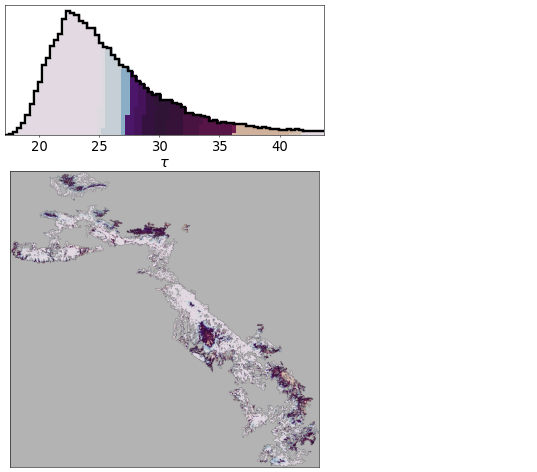
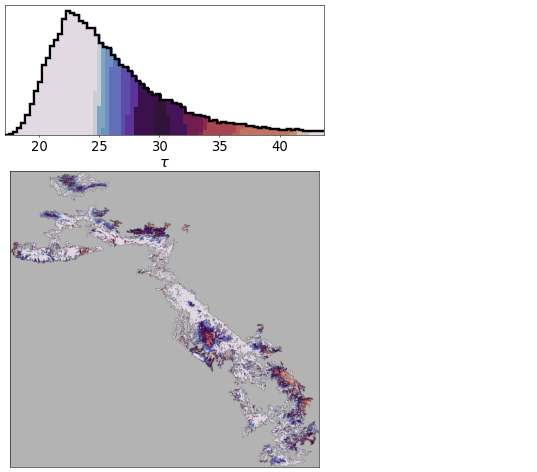
Write num eps samples to file

diff --git a/sensitivity/postprocess_mcsampled.py b/sensitivity/postprocess_mcsampled.py
@@ -1,0 +1,228 @@
+from tqdm import tqdm
+import numpy as np
+import pickle
+import signac as sg
+from scipy.special import gamma
+import scipy
+from global_functions import adjustmaps
+import h5py
+from itertools import product
+import os
+
+# Define/load things non-specific to a given set of results
+#metric = "P_s"
+metric = "lambda_s"
+Aeff = 7.29
+t_final = 300
+ncell_tot = 87_993
+c = 1.42
+with sg.H5Store('shared_data.h5').open(mode='r') as sd:
+    b_vec = np.array(sd['b_vec'])
+tau_vec = b_vec * gamma(1+1/c)
+tau_step = np.diff(tau_vec)[0] / 2
+tau_edges = np.concatenate(([0], np.arange(tau_step/2, tau_vec[-1]+tau_step, tau_step)))
+tauc_methods = ["flat"]
+#C_i_vec = [0,1,2,4,6] # For generation of cell metric data
+C_i_vec = [0, 1]
+results_pre_labs = ['gte_thresh']
+#results_pre_labs = ['distribution_avg']
+overwrite_robustness = True
+overwrite_cellmetric = True
+
+# Function to read in things specific to given results as global variables
+def set_globals(results_pre):
+    globals()['metric_lab'] = f'$S_{{meta}}$'
+    globals()['fn_prefix'] = f"{results_pre}/data/Aeff_{Aeff}/tfinal_{t_final}/metric_{metric}/"
+    globals()['fig_prefix'] = f"{results_pre}/figs/Aeff_{Aeff}/tfinal_{t_final}/metric_{metric}/"
+
+    # Load things saved specific to these results
+    with open(fn_prefix + 'metric_data.pkl', 'rb') as handle:
+        globals()['metric_data'] = pickle.load(handle)
+    globals()['all_metric'] = metric_data['all_metric']
+    globals()['all_tau'] = np.load(f"{results_pre}/data/Aeff_{Aeff}/tfinal_{t_final}/all_tau.npy")
+    globals()['C_vec'] = np.load(fn_prefix + "C_vec.npy")
+    globals()['ncell_vec'] = np.load(fn_prefix + "ncell_vec.npy")
+    globals()['slice_left_all'] = np.load(fn_prefix + "slice_left_all.npy")
+    eps_axes = {}
+    with h5py.File(fn_prefix + "/eps_axes.h5", "r") as handle:
+        for key in handle.keys():
+            eps_axes.update({key: handle[key][()]})
+    globals()['eps_axes'] = eps_axes
+
+#### POSTPROCESS ROBUSTNESS ####
+for results_pre in results_pre_labs:
+    if not overwrite_robustness: continue
+    # Load things saved specific to these results
+    set_globals(results_pre)
+    x_all = np.load(fn_prefix + '/x_all.npy')
+    meta_metric_all = np.load(fn_prefix + '/meta_metric_all.npy')
+    meta_metric_all = meta_metric_all[:,0]
+    #tot_eps_samples = np.cumprod([len(axis) for axis in eps_axes.values()])[-1]
+    tot_eps_samples = int(np.load(fn_prefix + 'num_eps_combs.npy'))
+
+    # Define range of threshold values for metapop metric
+    rob_thresh_vec = np.linspace(min(meta_metric_all), max(meta_metric_all), 100)
+    np.save(fn_prefix + "rob_thresh_vec.npy", rob_thresh_vec)
+
+    # Create a lookup table for parameter combinations
+    filter_dict = {}
+    for C_i, C in enumerate(C_vec):
+        for ncell_i, ncell in enumerate(ncell_vec):
+            for sl_i, slice_left in enumerate(slice_left_all):
+                filt = (x_all[:,0] == C) & (x_all[:,1] == ncell) & (x_all[:,2] == slice_left)
+                if np.count_nonzero(filt) > 0:
+                    filter_dict[(C_i, ncell_i, sl_i)] = np.where(filt)[0]  # store indices only
+
+    # Calculate the robustness at each threshold and strategy combination
+    allrob = np.full((rob_thresh_vec.size, C_vec.size, ncell_vec.size, slice_left_all.size), np.nan)
+    zero_eps_mask = np.all(x_all[:, 3:] == 0, axis=1)
+    for thresh_i, thresh in enumerate(rob_thresh_vec):
+        for (C_i, ncell_i, sl_i), indices in filter_dict.items():
+            zeroeps_filt = zero_eps_mask[indices]
+            if np.any(meta_metric_all[indices][zeroeps_filt] >= thresh):
+                counts = np.count_nonzero(meta_metric_all[indices] >= thresh)
+                robustness = counts / tot_eps_samples
+                allrob[thresh_i, C_i, ncell_i, sl_i] = robustness
+        
+    # Now find the strategies which optimize robustness per threshold, C combination
+    maxrob = np.full((len(rob_thresh_vec), len(C_vec)), np.nan)
+    argmaxrob = np.full((len(rob_thresh_vec), len(C_vec), 2), np.nan)
+    for (thresh_i, thresh), (C_i, C) in product(enumerate(rob_thresh_vec), enumerate(C_vec)):
+        rob_slice = allrob[thresh_i, C_i]
+        if np.any(~np.isnan(rob_slice)):
+            # Store the max robustness at this (thresh, C) coordinate
+            maxrob[thresh_i, C_i] = np.nanmax(rob_slice)
+            
+            # Also store the optimal param indices
+            optimal_param_i = np.unravel_index(np.nanargmax(rob_slice, axis=None), rob_slice.shape)
+            argmaxrob[thresh_i, C_i] = optimal_param_i
+
+    # Save maxrob and argmaxrob to files
+    np.save(fn_prefix + "maxrob.npy", maxrob)
+    np.save(fn_prefix + "argmaxrob.npy", argmaxrob)
+
+#### COMPUTE AND STORE PER CELL METRIC ####
+
+# Read in maps and convert fdm to tau
+ul_coord = [1500, 2800]
+lr_coord = [2723, 3905]
+usecols = np.arange(ul_coord[0],lr_coord[0])
+sdmfn = "../shared_maps/SDM_1995.asc"
+sdm = np.loadtxt(sdmfn,skiprows=6+ul_coord[1],
+                         max_rows=lr_coord[1], usecols=usecols)
+fdmfn = '../shared_maps/FDE_current_allregions.asc'
+fdm = np.loadtxt(fdmfn,skiprows=6+ul_coord[1],
+                         max_rows=lr_coord[1], usecols=usecols)
+sdm, fdm = adjustmaps([sdm, fdm])
+delta_t = 30
+b_raster = delta_t / np.power(-np.log(1-fdm), 1/c)
+tau_raster = b_raster * gamma(1+1/c)
+maps_filt = (sdm > 0) & (fdm > 0)
+tau_flat = tau_raster[maps_filt]
+mapindices = np.argwhere(maps_filt)
+tau_argsort_ref = np.argsort(tau_flat)
+tau_sorted = tau_flat[tau_argsort_ref]
+
+# Define functions used for determining best step fit
+'''Note these actually are fit for the indices of allowed values, not the y values themselves'''
+def step_function1(x, threshold, value_low, value_high):
+    return np.where(x < threshold, value_low, value_high)
+def step_function2(x, threshold1, threshold2, value_btwn, value_out):
+    return np.where((x >= threshold1) & (x < threshold2), value_btwn, value_out)
+
+def stepfit1(X, y, y0_i):
+    def mse_loss(params):
+        """Mean squared error for the step function fit."""
+        threshold = params[0]
+        value_low = allowed_values[int(round(params[1]))]
+        value_high = allowed_values[int(round(params[2]))]
+        y_pred = step_function1(X, threshold, value_low, value_high)
+        return np.mean((y - y_pred) ** 2)
+    initial_guess = [0.5, 0.5, 0.5]
+    bounds = [(X.min(), X.max()), (y0_i, y0_i), (0, allowed_values.size - 1)]
+    result = scipy.optimize.differential_evolution(mse_loss, bounds)
+    return result
+def stepfit2(X, y, y0_i):
+    def mse_loss(params):
+        threshold1 = params[0]
+        threshold2 = params[1]
+        value_btwn = allowed_values[int(round(params[2]))]
+        value_out = allowed_values[int(round(params[3]))]
+        y_pred = step_function2(X, threshold1, threshold2, value_btwn, value_out)
+        return np.mean((y - y_pred) ** 2)
+    initial_guess = [0.5, 0.5, 0.5, 0.5]
+    bounds = [(X.min(), X.max()), (X.min(), X.max()), (0, allowed_values.size - 1), (y0_i, y0_i)]
+    result = scipy.optimize.differential_evolution(mse_loss, bounds)
+    return result
+
+step_funcs = [step_function1, step_function2]
+allowed_values = np.array([0, 1])
+
+# First, populate matrix recording which cells are in optima for a range of omega requirement
+omega_samples = np.linspace(0, 1, 50)
+for res_i, results_pre in enumerate(results_pre_labs):
+    if not overwrite_cellmetric: continue
+    set_globals(results_pre)
+    maxrob = np.load(fn_prefix + "maxrob.npy")
+    argmaxrob = np.load(fn_prefix + "argmaxrob.npy")
+    rob_thresh_vec = np.load(fn_prefix + "rob_thresh_vec.npy")
+    for C_i in C_i_vec:
+        tauhat_min = np.round(C_vec[C_i]/ncell_tot, 2) 
+        if os.path.isdir(fn_prefix + f"{tauhat_min}") == False:
+            os.makedirs(fn_prefix + f"{tauhat_min}")
+
+        # Select metric threshold indices as close as possible to desired omega samples
+        #closest_thresh_i = np.array([np.abs(maxrob[:,C_i] - val).argmin() for val in omega_samples])
+        closest_thresh_i = []
+        for i, omega in enumerate(omega_samples):
+            closest_i = np.nanargmin(np.abs(maxrob[:,C_i] - omega))
+            if maxrob[closest_i, C_i] == 1: continue
+            closest_thresh_i.append(closest_i)
+        closest_thresh_i = np.array(closest_thresh_i)
+        # Filter out any repeats
+        rpt_filt = np.concatenate(((np.diff(closest_thresh_i) == 0), [False]))
+        closest_thresh_i = closest_thresh_i[~rpt_filt]
+
+        # For each omega sample, record which cells are included in optima
+        inoptima_vec = np.zeros((tau_flat.size, closest_thresh_i.size)).astype('bool')
+        for omega_sample_i, metric_thresh_i in enumerate(closest_thresh_i):
+            opt_ncell_i, opt_sl_i = argmaxrob[metric_thresh_i, C_i].astype(int)
+            opt_ncell = ncell_vec[opt_ncell_i]
+            opt_sl = slice_left_all[opt_sl_i]
+            '''Note that we assume the tau axis of inoptima_vec is in sorted order'''
+            inoptima_vec[opt_sl:opt_sl+opt_ncell, omega_sample_i] = True
+        np.save(fn_prefix + f"{tauhat_min}/inoptima_vec.npy", inoptima_vec)
+
+        # Now, fit a step function to each cell's data and store information based on that
+        #stepfit_T1 = np.ones(tau_flat.size) * np.nan
+        #stepfit_T2 = np.ones(tau_flat.size) * np.nan
+        total_inoptima = np.ones(tau_flat.size) * np.nan
+        for k in tqdm(range(tau_flat.size)):
+        #for k in tqdm(range(100)):
+            total_inoptima[k] = np.count_nonzero(inoptima_vec[k] == 1)
+            ## Retrieve and relabel cell k's data for fitting
+            #X = maxrob[:, C_i][closest_thresh_i]
+            #y = inoptima_vec[k]
+            #y0_i = np.argwhere(y[0] == allowed_values)[0][0]
+            #y0 = allowed_values[y0_i]
+            ## Check if always in/ex-cluded from optima
+            #if np.all(y == y0):
+            #    # Encode 2 -> always excluded, 3 -> always included
+            #    '''Could just store as 0 and 1/-1 respecitvely if only using T1'''
+            #    stepfit_T1[k] = y0 + 2
+            #    total_inoptima[k] = y0*y.size
+            ## Perform fitting otherwise
+            #else:
+            #    # Determine the best fit
+            #    best_fit = stepfit1(X,y,y0_i); best_fit_i = 0
+            #    # Use y0 to determine the sign
+            #    sign = 1 if y0 == 0 else -1
+            #    # Store the threshold values with direction from sign
+            #    stepfit_T1[k] = sign * best_fit.x[0]
+            #    if best_fit_i == 1:
+            #        stepfit_T2[k] = sign * best_fit.x[1]
+            #    total_inoptima[k] = np.count_nonzero(y == 1)
+        #np.save(fn_prefix + f"{tauhat_min}/stepfit_T1.npy", stepfit_T1)
+        #np.save(fn_prefix + f"{tauhat_min}/stepfit_T2.npy", stepfit_T2)
+        np.save(fn_prefix + f"{tauhat_min}/total_inoptima.npy", total_inoptima)
+        np.save(fn_prefix + f"{tauhat_min}/closest_thresh_i.npy", closest_thresh_i)

diff --git a/sensitivity/phase_mcsampled.py b/sensitivity/phase_mcsampled.py
@@ -35,15 +35,9 @@ constants['overwrite_results'] = True
 constants['plotting_tau_bw_ratio'] = 30 #For binning initial tau (with uncertainty) in phase slice plots
 
 # Get list of samples for each parameter
-constants['tauc_min_samples'] = np.array([9.0])
+constants['tauc_min_samples'] = np.array([5.0, 9.0])
 constants['ncell_samples'] = 15
 constants['slice_samples'] = 30
-#constants['ncell_samples'] = 5
-#constants['slice_samples'] = 10
-mu_tau_vec = np.arange(-9, 6, 3).astype(float)
-sigm_tau_vec = np.linspace(0, 10, 3)
-mu_tauc_vec = np.arange(-9, 6, 3).astype(float)
-sigm_tauc_vec = np.linspace(0, 10, 3)
 
 # Start timer to track runtime
 start_time = timeit.default_timer()
@@ -66,19 +60,19 @@ else:
         # 'C': 5.*pproc.ncell_tot,
         # 'ncell': int(0.02*pproc.ncell_tot),
         # 'slice_left': int(0.* pproc.ncell_tot),
-        'mu_tau': -9.,
+        'mu_tau': -10.,
         'sigm_tau': 0.,
-        'mu_tauc': -9.,
+        'mu_tauc': -10.,
         'sigm_tauc': 0.
     }
     maxima = {
         # 'C': 5.*pproc.ncell_tot,
         # 'ncell': int(1. * pproc.slice_right_max),
         # 'slice_left': int(1.*pproc.ncell_tot),
-        'mu_tau': 3.,
-        'sigm_tau': 7.,
-        'mu_tauc': 0.,
-        'sigm_tauc': 3.
+        'mu_tau': 6.,
+        'sigm_tau': 10.,
+        'mu_tauc': 6.,
+        'sigm_tauc': 10.
     }
 
     ### Initialize strategy combinations ### 
@@ -104,9 +98,10 @@ else:
 
     ### Add on samples of uncertain samples ###
     # First define the number of eps samples per strategy combination
-    num_eps_combs = 225
-    #num_eps_combs = 500
+    #num_eps_combs = 225
+    num_eps_combs = 500
     #num_eps_combs = 100
+    np.save(pproc.data_dir + '/num_eps_combs.npy', num_eps_combs)
     num_combs_tot = num_strategy_combs * num_eps_combs
 
     # Initialize x_all with repeats of strategy combinations
@@ -146,15 +141,6 @@ else:
 
     # Save to file for reference in postprocessing
     np.save(pproc.data_dir + '/x_all.npy', x_all)
-
-    # Save uncertainty axes to file
-    fn = pproc.data_dir + "/eps_axes.h5"
-    if (not os.path.isfile(fn)) or pproc.overwrite_results:
-        with h5py.File(fn, "w") as handle:
-            handle['mu_tau'] = mu_tau_vec
-            handle['sigm_tau'] = sigm_tau_vec
-            handle['mu_tauc'] = mu_tauc_vec
-            handle['sigm_tauc'] = sigm_tauc_vec
 
 # Broadcast samples to all ranks
 x_all = pproc.comm.bcast(x_all, root=pproc.root)

diff --git a/sensitivity/makefig.py b/sensitivity/makefig.py
@@ -32,7 +32,7 @@ tau_vec = b_vec * gamma(1+1/c)
 tauc_methods = ["flat"]
 #C_i_vec = [0,1,2,4,6]
 #C_i_vec = [0,2,4,6]
-C_i_vec = [0]
+C_i_vec = [0, 1]
 results_pre = 'gte_thresh' 
 #results_pre = 'distribution_avg' 
 
